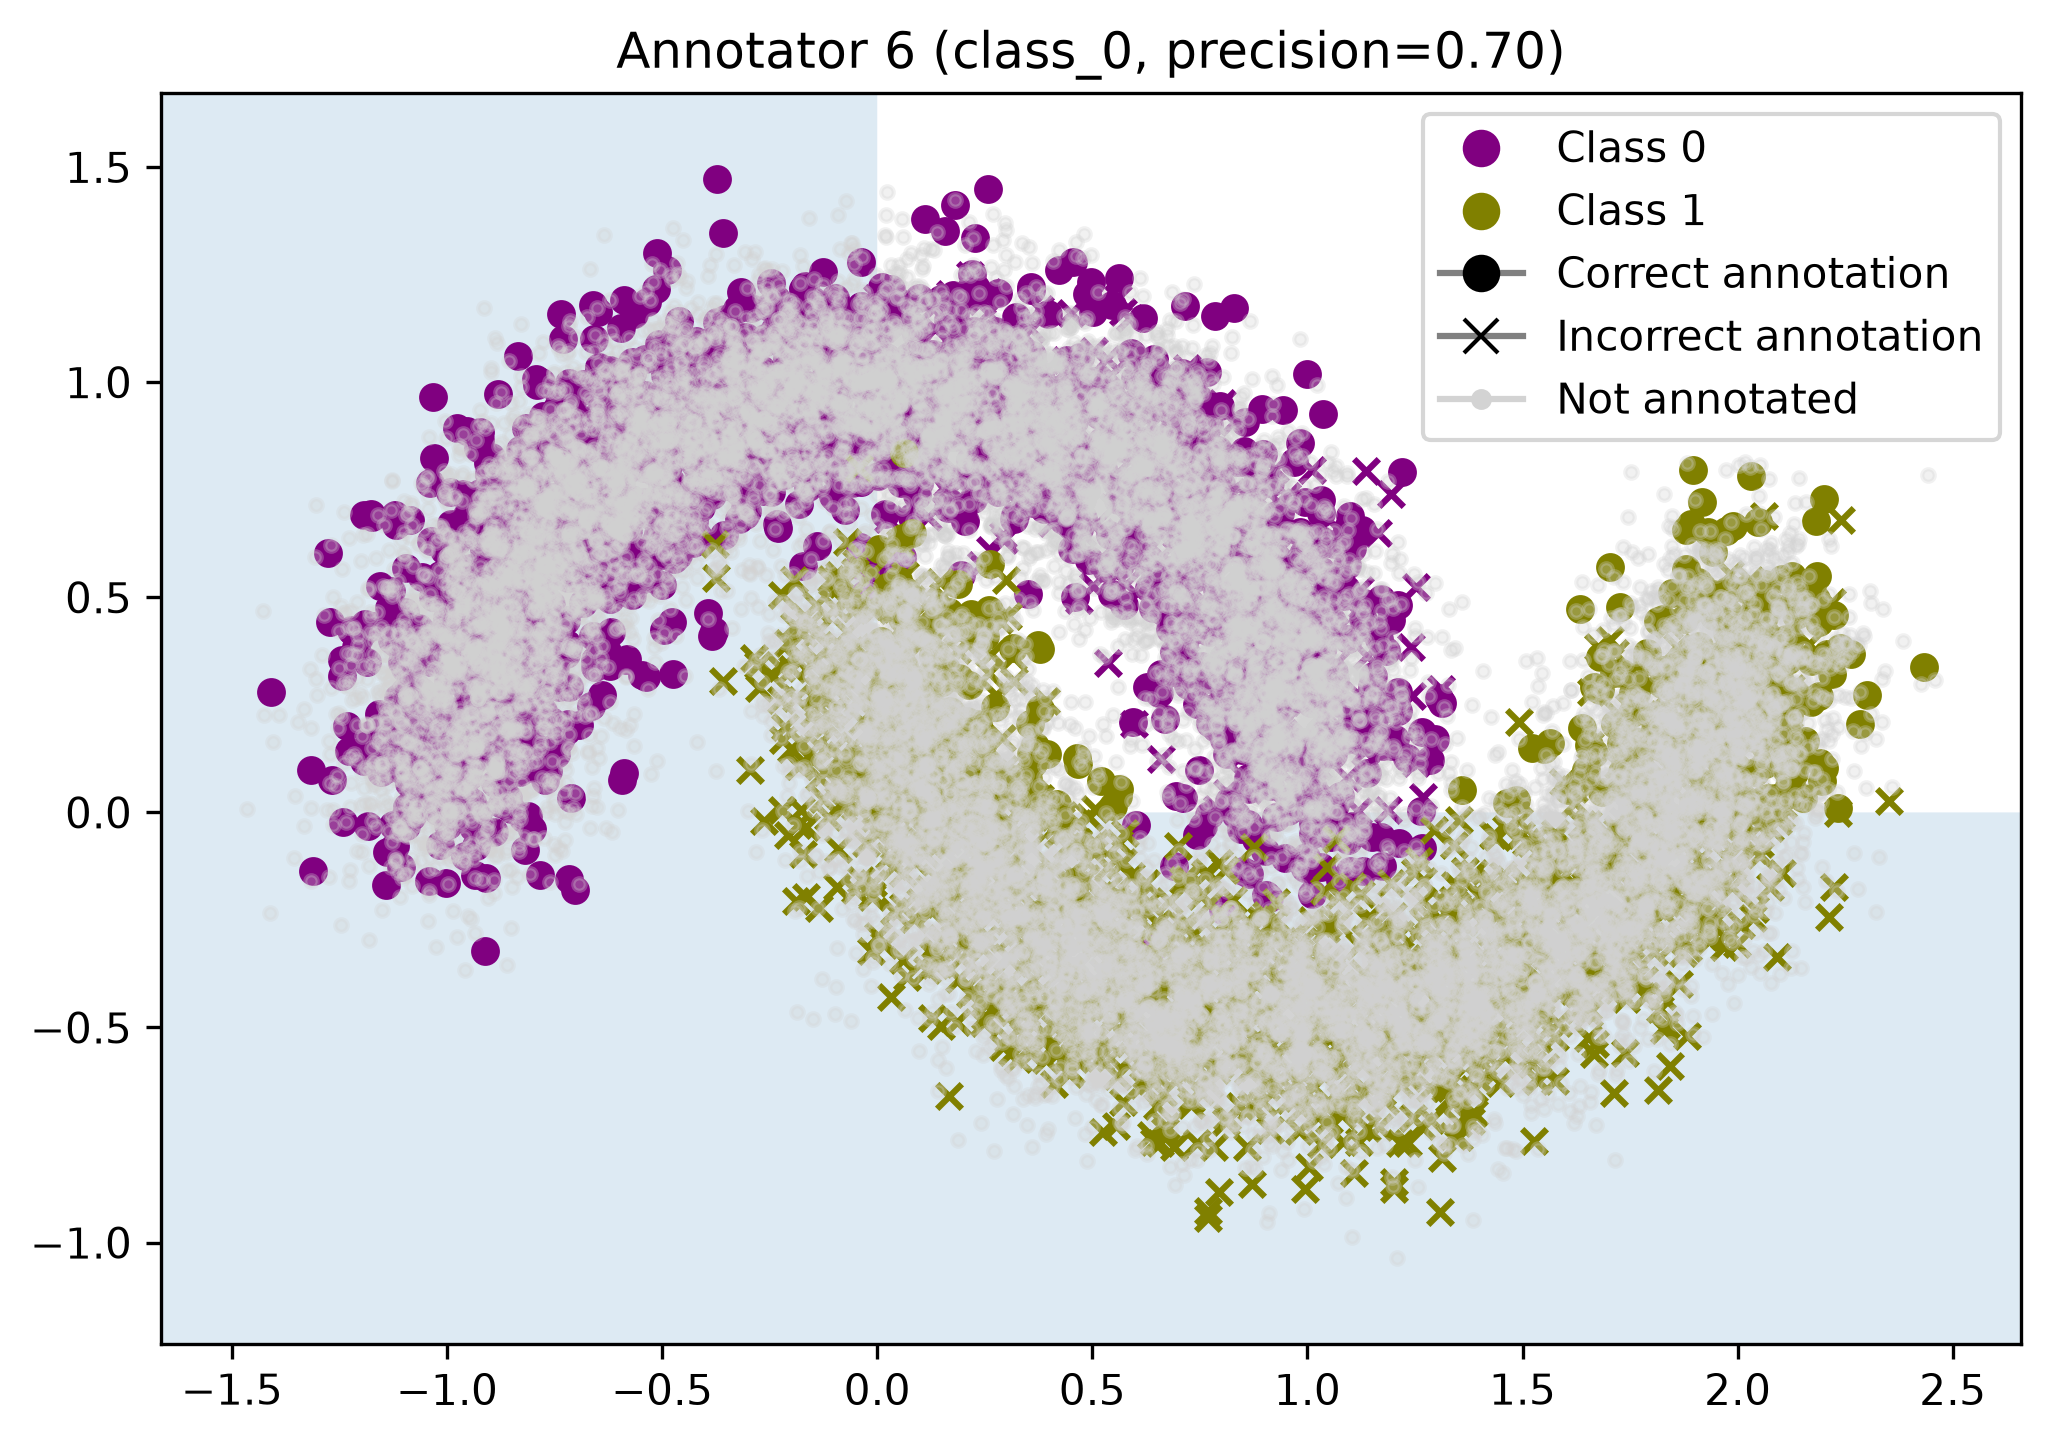
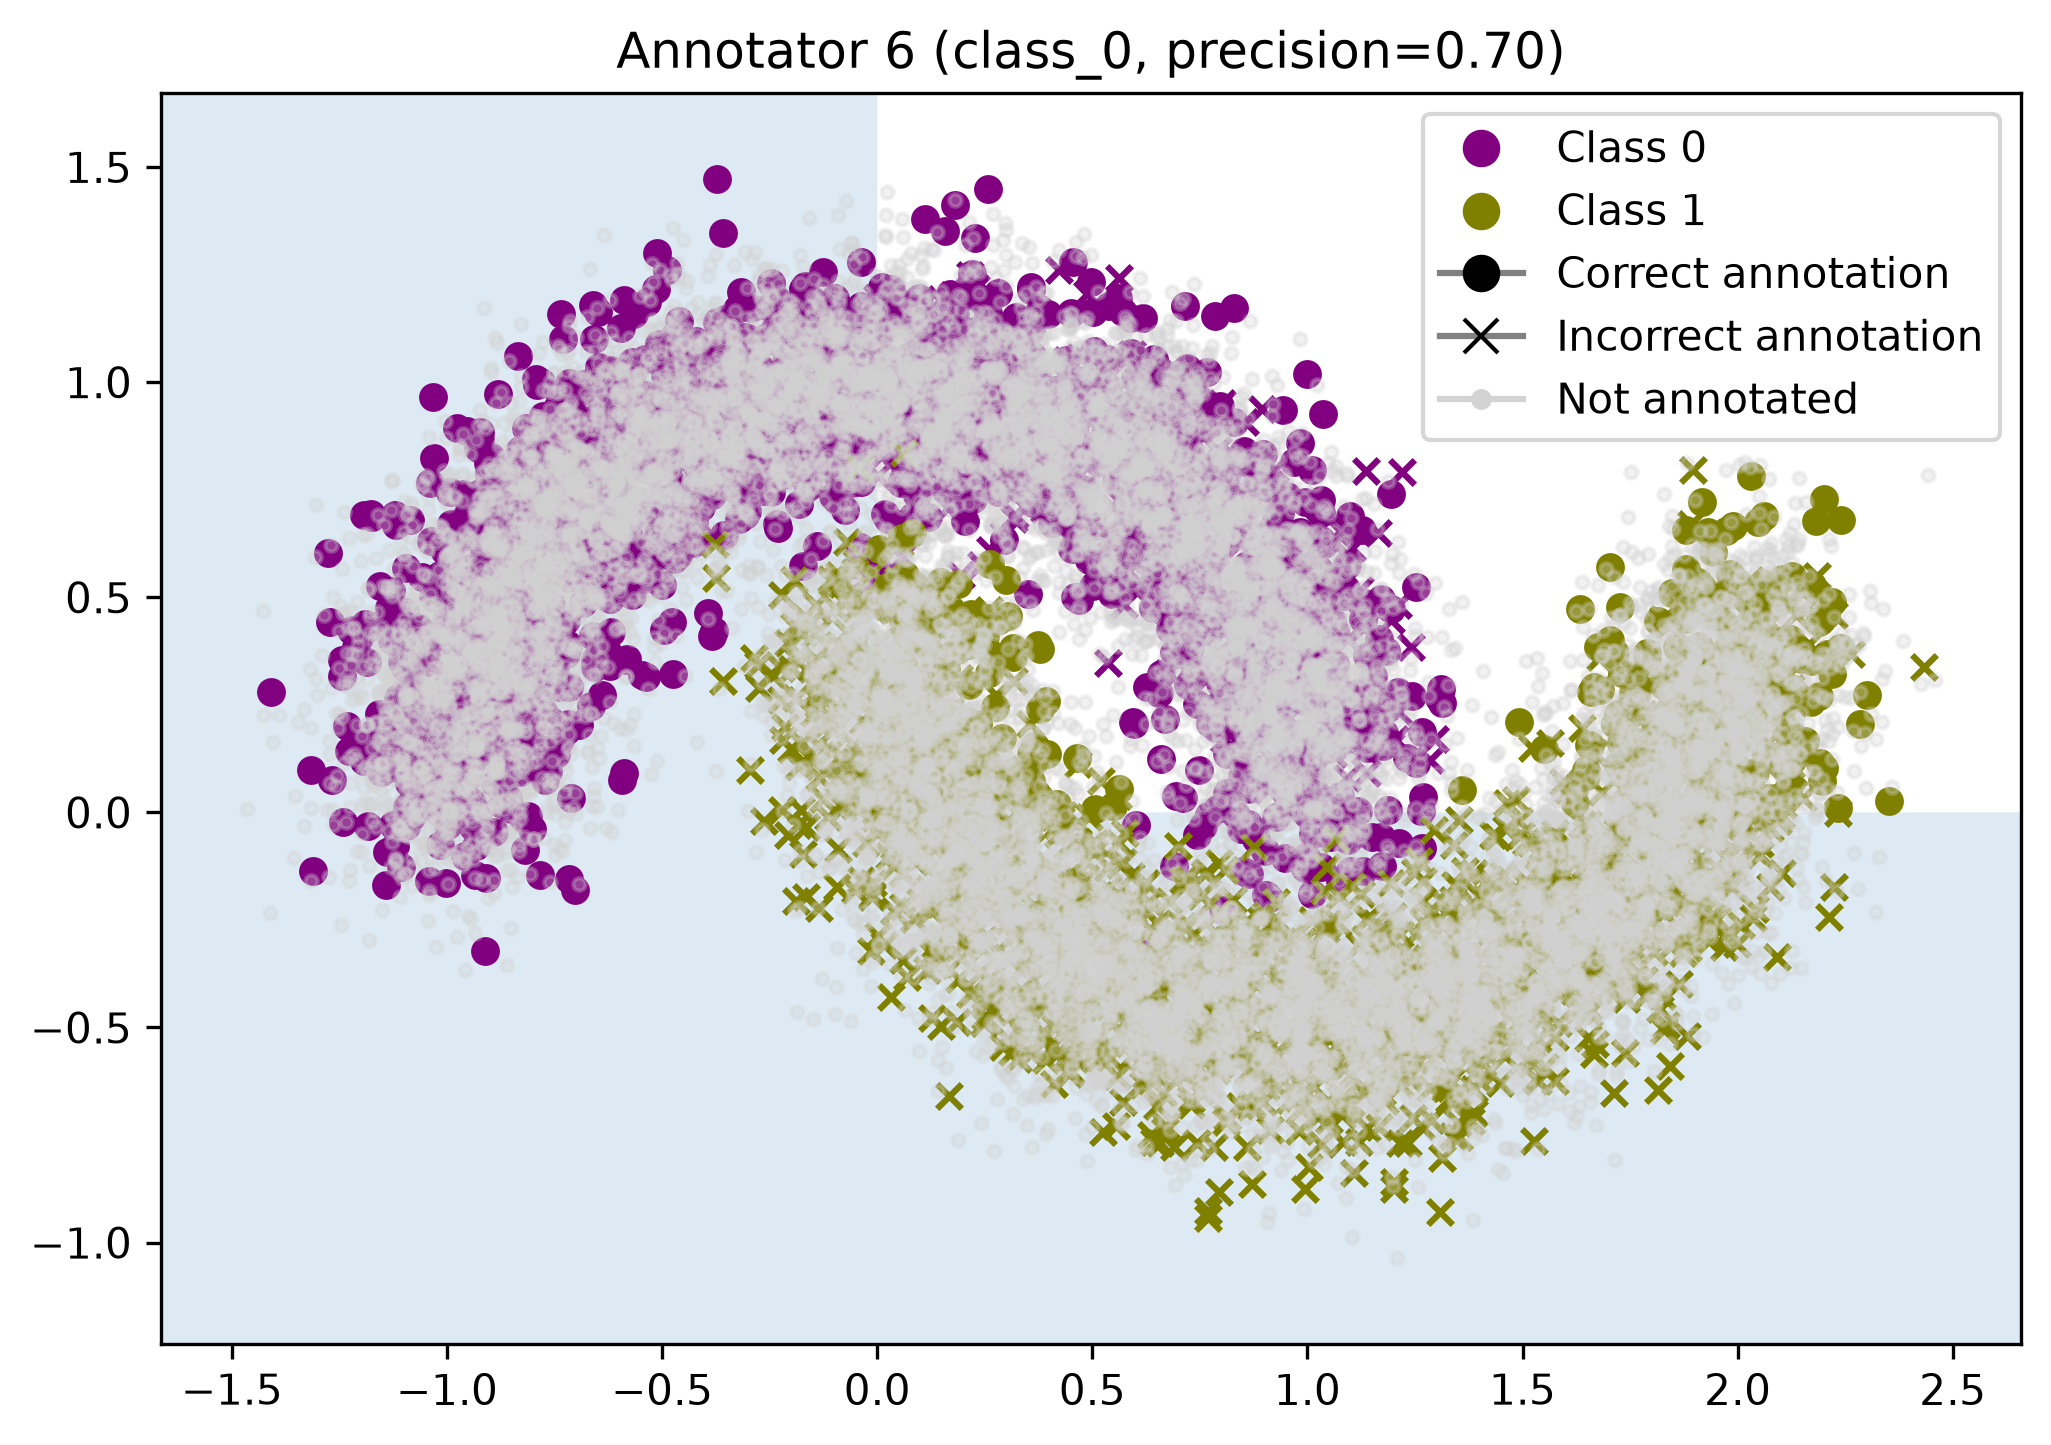
Deleted some files generated in the testing

diff --git a/src/gpcrowdkit/annotators/strategies.py b/src/gpcrowdkit/annotators/strategies.py
@@ -466,7 +466,7 @@ class FeatDepDirichletAnnotator(AnnotatorModel):
         X: np.ndarray,
         hidden_units: list[int] = [64, 64],
         annotator_embedding_dim: int = 8,
-        feature_bottleneck_dim: int | None = 1,
+        feature_bottleneck_dim: int | None = 150,
         alpha_prior: float = 1.0,
         alpha_tilde_init: np.ndarray | None = None,
         name: str | None = None,
